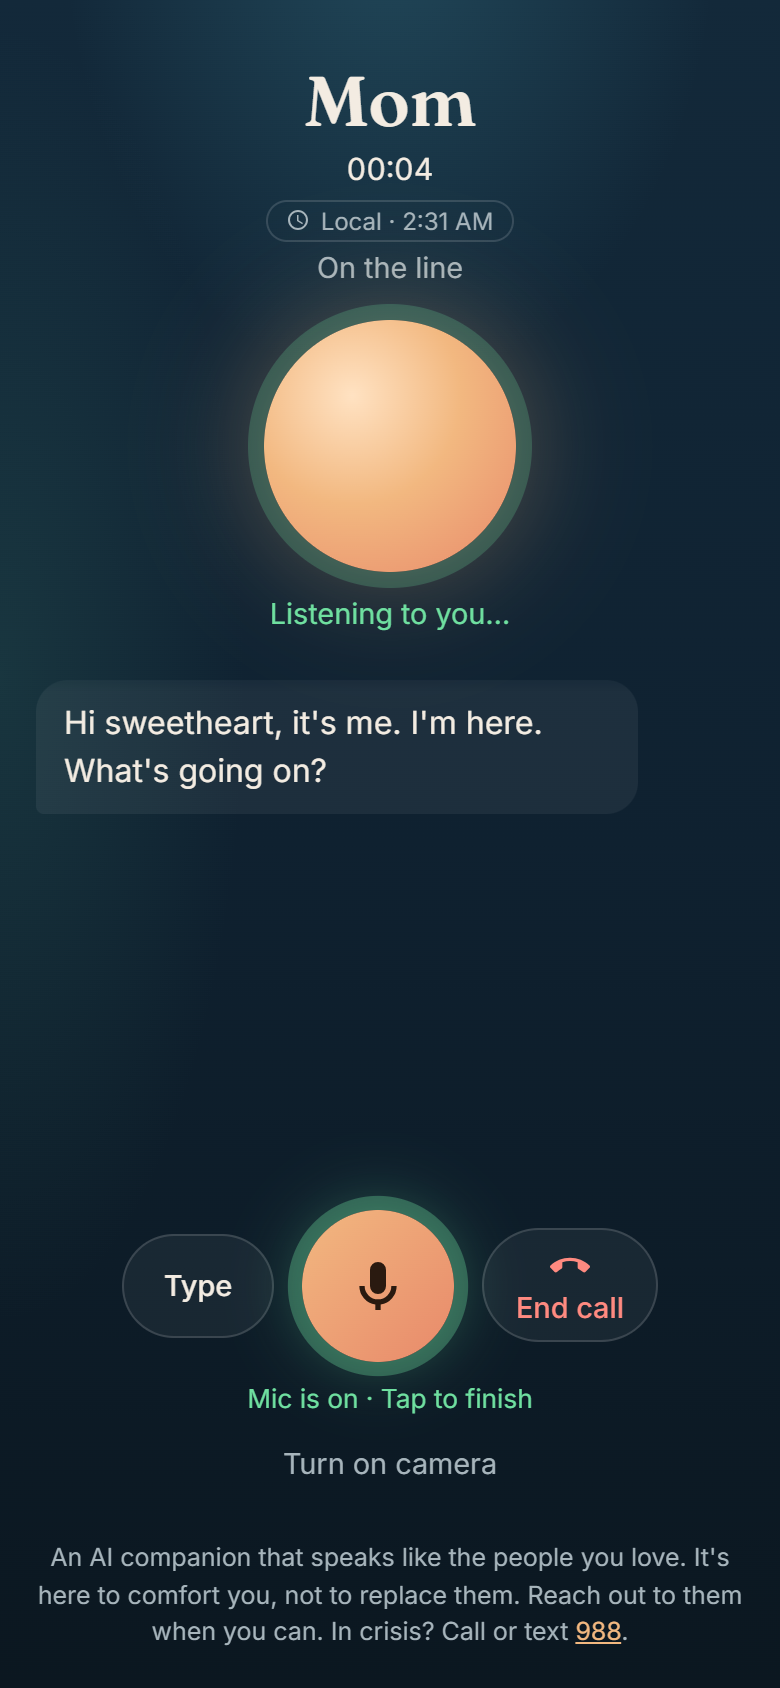
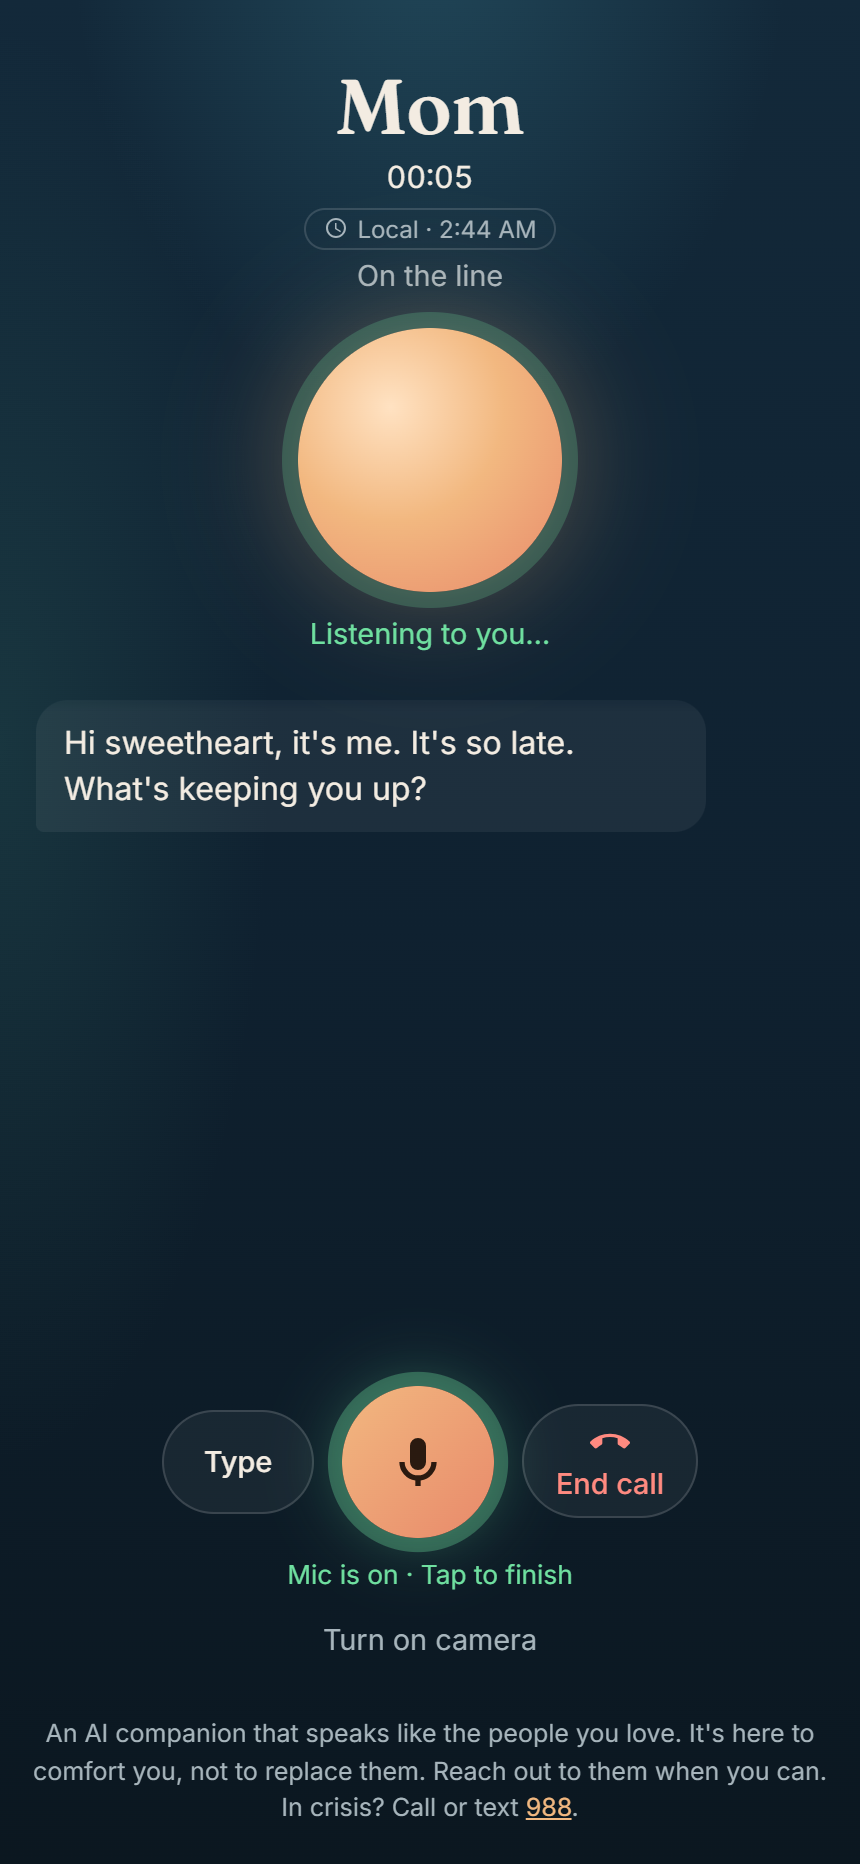
Document the time feature and retake screenshots
Screenshots are retaken at 430x932 so each call shows your message
above the reply, and now show the late-night greeting. The README
covers the time feature in What it does, How we use Claude and the
60-second walkthrough.

Changed region(s): [[0.0615, 0.0308, 0.7077, 0.4621], [0.0308, 0.7085, 0.9538, 0.9858], [0.2154, 0.7393, 0.3077, 0.8009]]

diff --git a/README.md b/README.md
@@ -9,7 +9,7 @@
 
 | Call someone you miss | They answer in their voice | Or copy their real voice | Then text the real one |
 | --- | --- | --- | --- |
-| <img src="docs/screenshots/01-contacts.png" width="190" alt="HearU contacts: Mom, Dad, Grandma, Big Bro"> | <img src="docs/screenshots/05-conversation.png" width="190" alt="A call with Mom at 2:31 AM"> | <img src="docs/screenshots/07-real-voice.png" width="190" alt="Recording a loved one's real voice, with consent"> | <img src="docs/screenshots/06-call-ended.png" width="190" alt="Call ended, with a Text your real Mom button"> |
+| <img src="docs/screenshots/01-contacts.png" width="190" alt="HearU contacts: Mom, Dad, Grandma, Big Bro"> | <img src="docs/screenshots/05-conversation.png" width="190" alt="A call with Mom at 2:44 AM"> | <img src="docs/screenshots/07-real-voice.png" width="190" alt="Recording a loved one's real voice, with consent"> | <img src="docs/screenshots/06-call-ended.png" width="190" alt="Call ended, with a Text your real Mom button"> |
 
 Built at Cal Hacks 13.0. **Claude** writes what they'd say; **Cartesia** says it in their voice.
 
@@ -29,7 +29,8 @@ them when you can. It's built to bring people closer, not to replace them.
 ## Try it in 60 seconds
 
 1. Open the [live demo](https://team-emotional-exit-tau.vercel.app) in Chrome and allow the microphone.
-2. Tap **Mom**. She answers in a voice our team cloned with Cartesia.
+2. Tap **Mom**. She answers in a voice our team cloned with Cartesia, and she knows your local time:
+   call late at night and she'll notice you're still up.
 3. Tap the mic and say something real, like "I bombed my midterm and I can't sleep." Or tap **Type**.
 4. Optional: tap **Turn on camera**, and she can see how you look when you talk.
 5. Ask "Are you really my mom?" and hear the honest answer.
@@ -45,6 +46,8 @@ them when you can. It's built to bring people closer, not to replace them.
   said it's okay, and HearU copies their voice with Cartesia.
 - **A real call.** Tap the mic and talk; they answer out loud, with the words on screen, a call
   timer and your local time. Type instead when you can't talk out loud.
+- **Knows what time it is.** At 2 AM they pick up with "It's so late. What's keeping you up?" and
+  nudge you toward sleep; in the morning it's "Good morning".
 - **Camera, if you want.** Like switching to video: one still photo goes with each message, so they
   can notice how you look. Off by default, never stored.
 - **Back to the real person.** Every call ends with their last words and a text ready to send:
@@ -94,6 +97,10 @@ API keys live only in Vercel's environment variables.
 - **Vision, gently.** With the camera on, your newest message carries one JPEG still. The persona
   reacts the way they would ("you're still at that desk in the dark") without describing the photo
   or commenting on how you look.
+- **Knows your local time.** The browser sends only its UTC offset (a number); the server works out
+  the time from its own clock and adds it to the persona, so no user text reaches the prompt this
+  way. At 2:44 AM, Mom said: "no wonder it's keeping you up at almost three in the morning… Will you
+  get a glass of water and tell me what happened, and then we'll see about getting you to bed?"
 - **Tuned for a phone call.** Claude Opus 5.5 at medium effort: replies took 2.8 to 4.4 seconds in
   our tests, against 4.6 to 7.1 at xhigh, and sounded just as warm. Replies are 1 to 3 spoken
   sentences, and the server caps their length.
